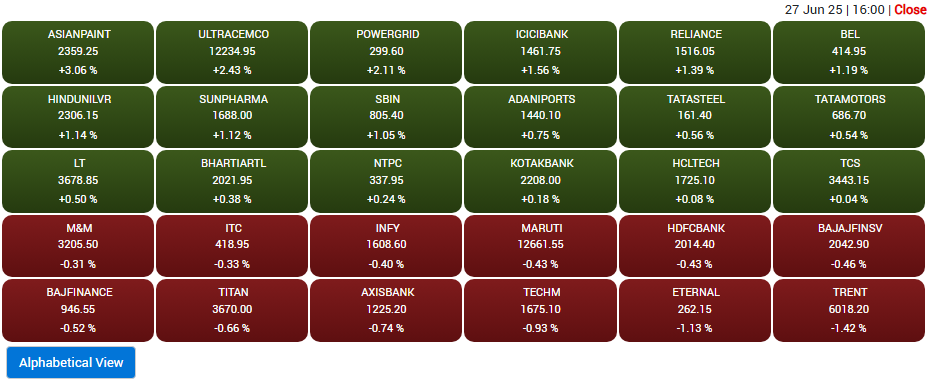
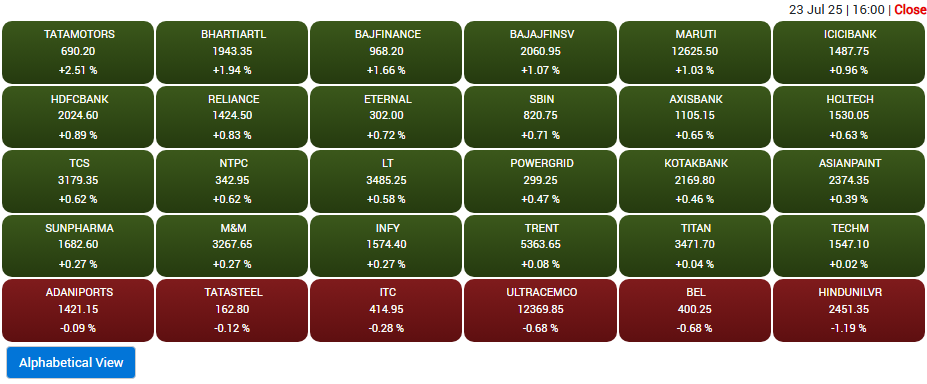
added changes

diff --git a/Back-end/app.py b/Back-end/app.py
@@ -20,7 +20,7 @@ CORS(app)
 # MongoDB Configuration
 app.config["MONGO_URI"] = "mongodb://localhost:27017/shopDB"
 mongo = PyMongo(app)
-
+UPLOAD_FOLDER = os.path.join(os.path.dirname(__file__),'Front-end','my-3d-scene', 'src', 'img')
 def seed_data():
     shops_collection = mongo.db.shops
     if shops_collection.count_documents({}) == 0:
@@ -47,7 +47,14 @@ def seed_data():
             }
         ]
         shops_collection.insert_many(shops)
-
+     # MG Road shops collection
+    mg_road_shops_collection = mongo.db.mgroad_shops
+    if mg_road_shops_collection.count_documents({}) == 0:
+        mg_shops = [
+            {"name": "Palace de versailles", "position": {"x": -6, "z": -30}, "hours": "9:00 AM - 8:00 PM"},
+            {"name": "MoviePlex", "position": {"x": 6, "z": 30}, "hours": "11:00 AM - 9:00 PM"},
+                   ]
+        mg_road_shops_collection.insert_many(mg_shops)
 # Initial shop data
 @app.route('/shops', methods=['GET'])
 def get_shops():
@@ -113,6 +120,47 @@ def take_screenshot():
 
     except Exception as e:
         print("Error taking screenshot:", str(e))  # ✅ Print instead of jsonify
+@app.route('/mgroad_shops', methods=['GET'])
+def get_mgroad_shops():
+    shops_collection = mongo.db.mgroad_shops
+    shops = []
+    for shop in shops_collection.find():
+        shops.append({
+            "id": str(shop['_id']),
+            "name": shop['name'],
+            "hours": shop['hours'],
+            "position": shop['position']
+        })
+    return jsonify(shops)
+@app.route('/update_mgroad_shop', methods=['POST'])
+def update_mgroad_shop():
+    data = request.json
+    shop_id = data['id']
+    update_fields = {}
+
+    if 'name' in data:
+        update_fields['name'] = data['name']
+    if 'hours' in data:
+        update_fields['hours'] = data['hours']
+
+    shops_collection = mongo.db.mgroad_shops
+    shops_collection.update_one(
+        {'_id': ObjectId(shop_id)},
+        {'$set': update_fields}
+    )
+
+    return jsonify({"message": "MG Road Shop updated successfully!"})
+
+@app.route('/replace-image', methods=['POST'])
+def replace_image():
+    file = request.files.get('image')
+    filename = request.form.get('filename')
+
+    if file and filename:
+        save_path = os.path.join(UPLOAD_FOLDER, filename)
+        file.save(save_path)
+        return jsonify({"message": "Image replaced", "updatedPath": f"/static/img/{filename}"})
+    return jsonify({"error": "Missing file or filename"}), 400
 
 if __name__ == "__main__":
     seed_data()  # Manually seed when starting the app
